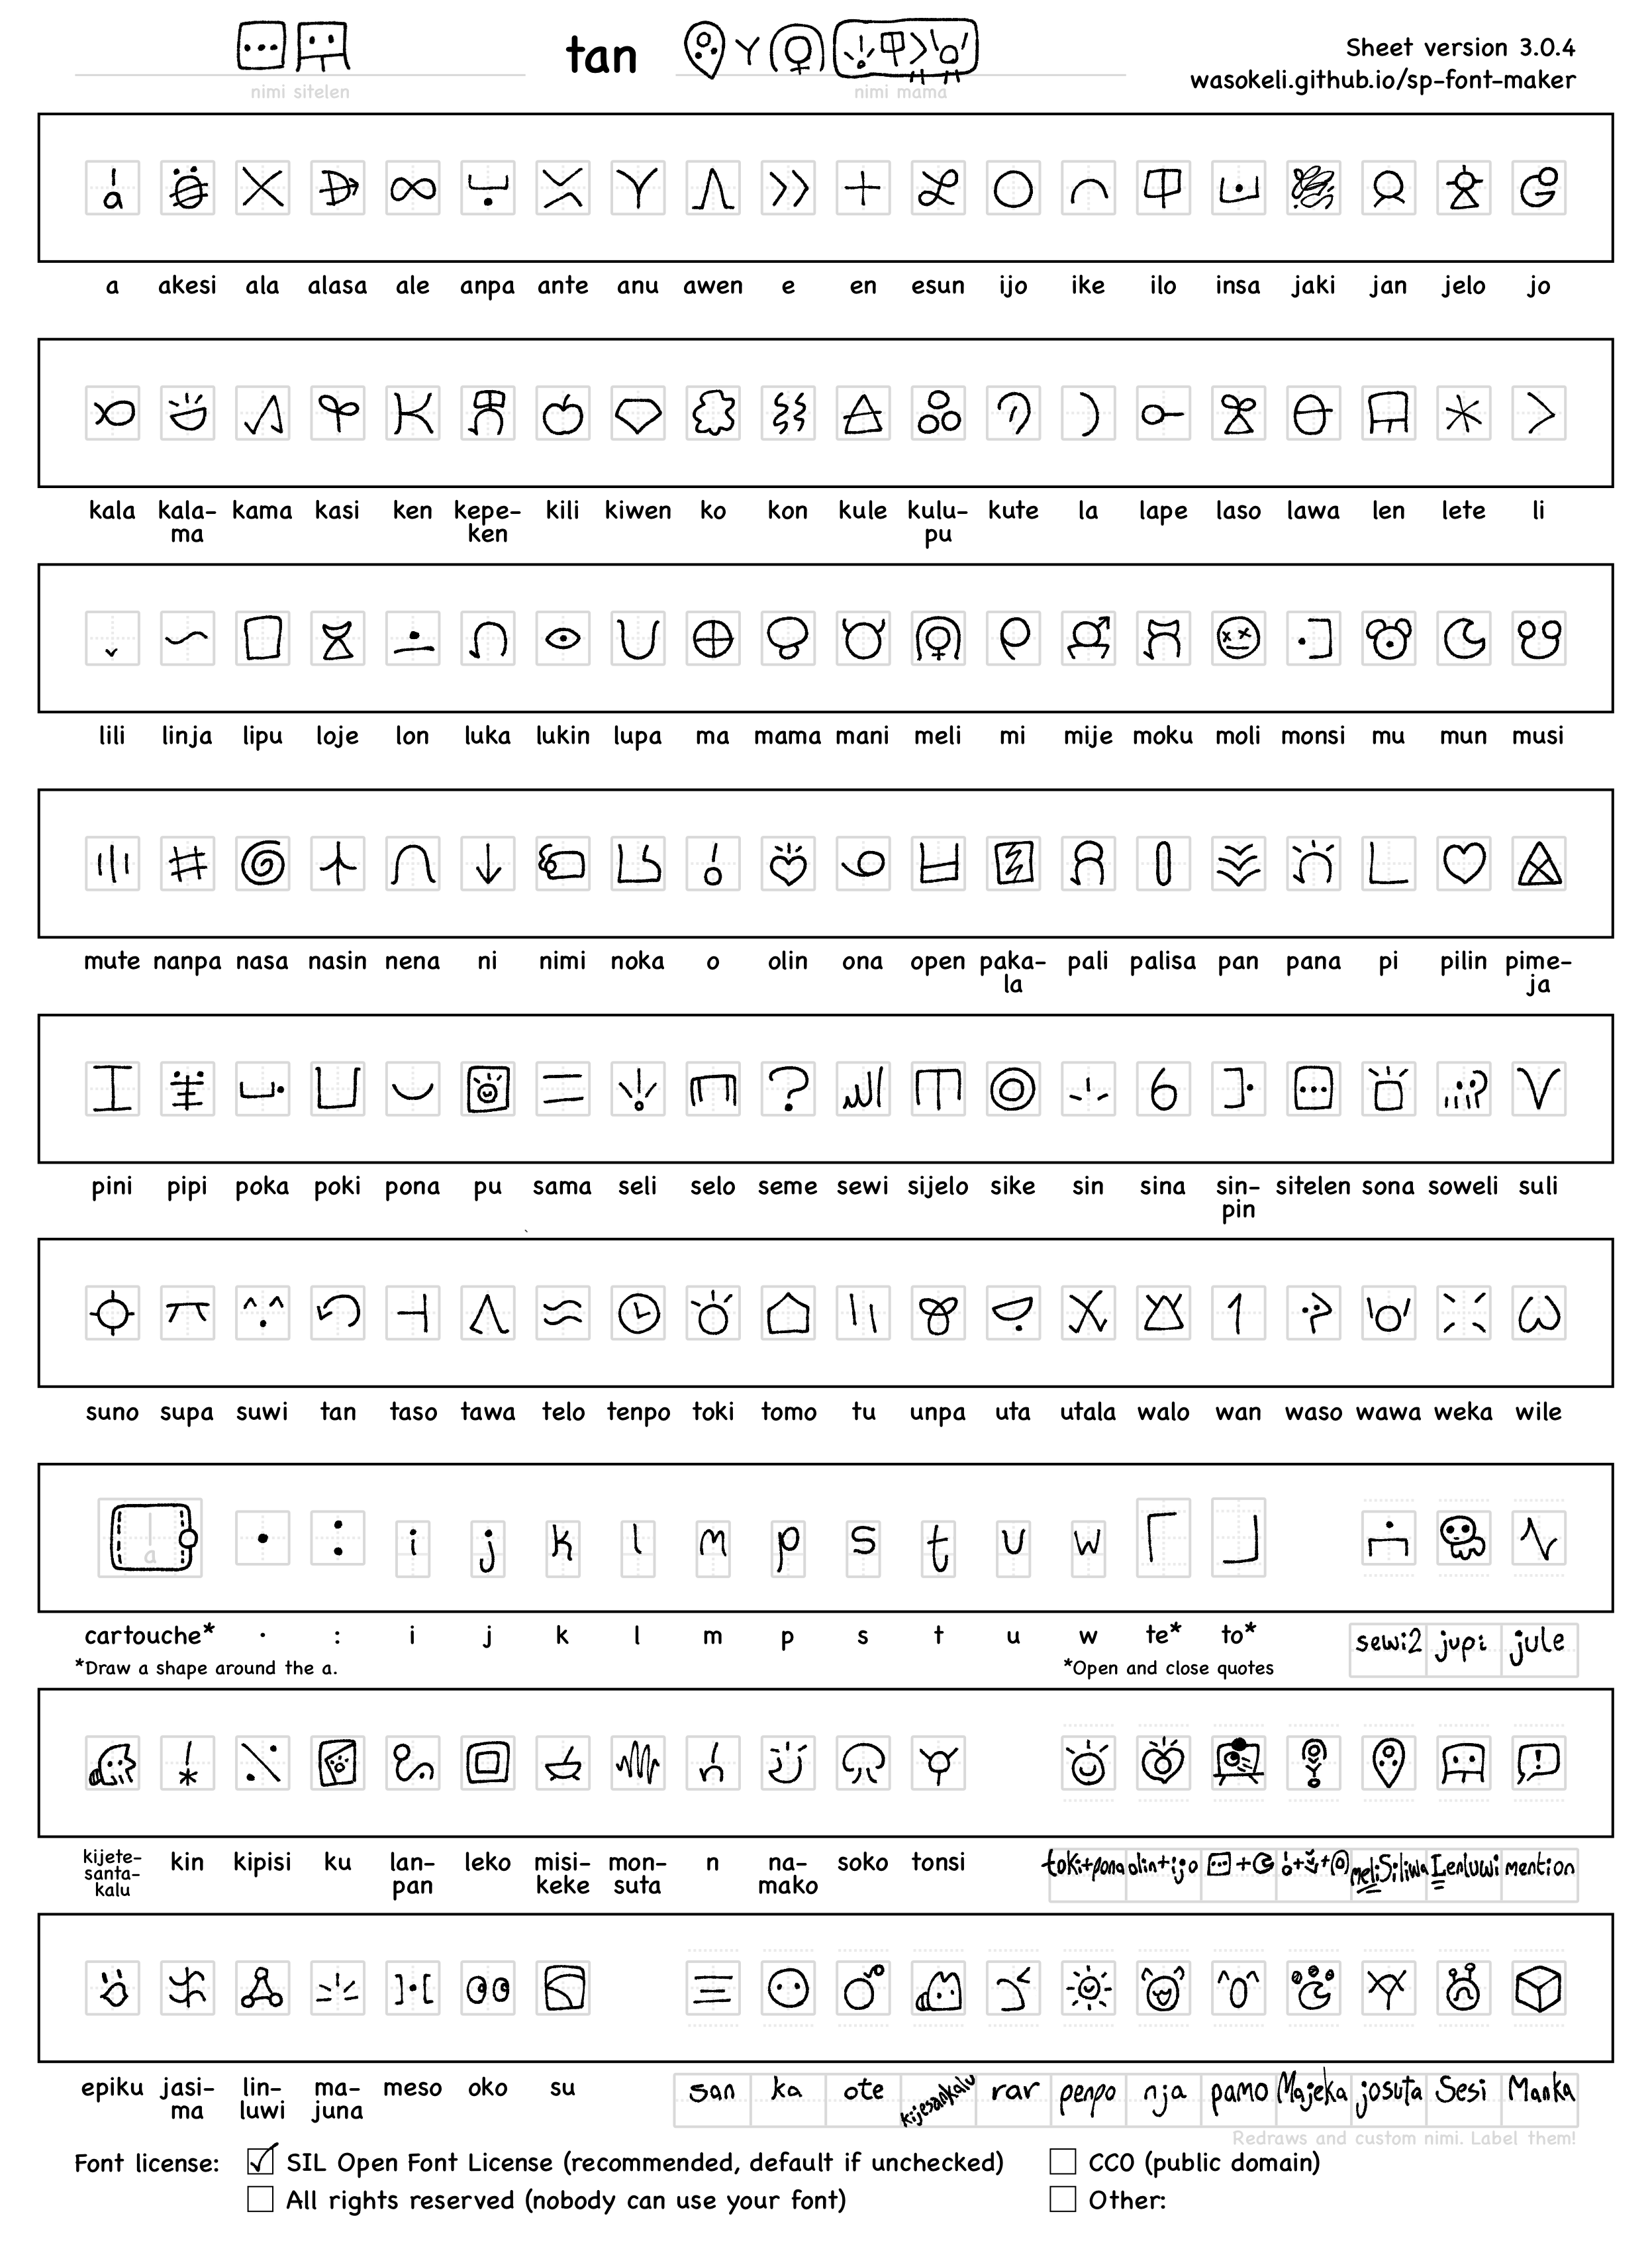
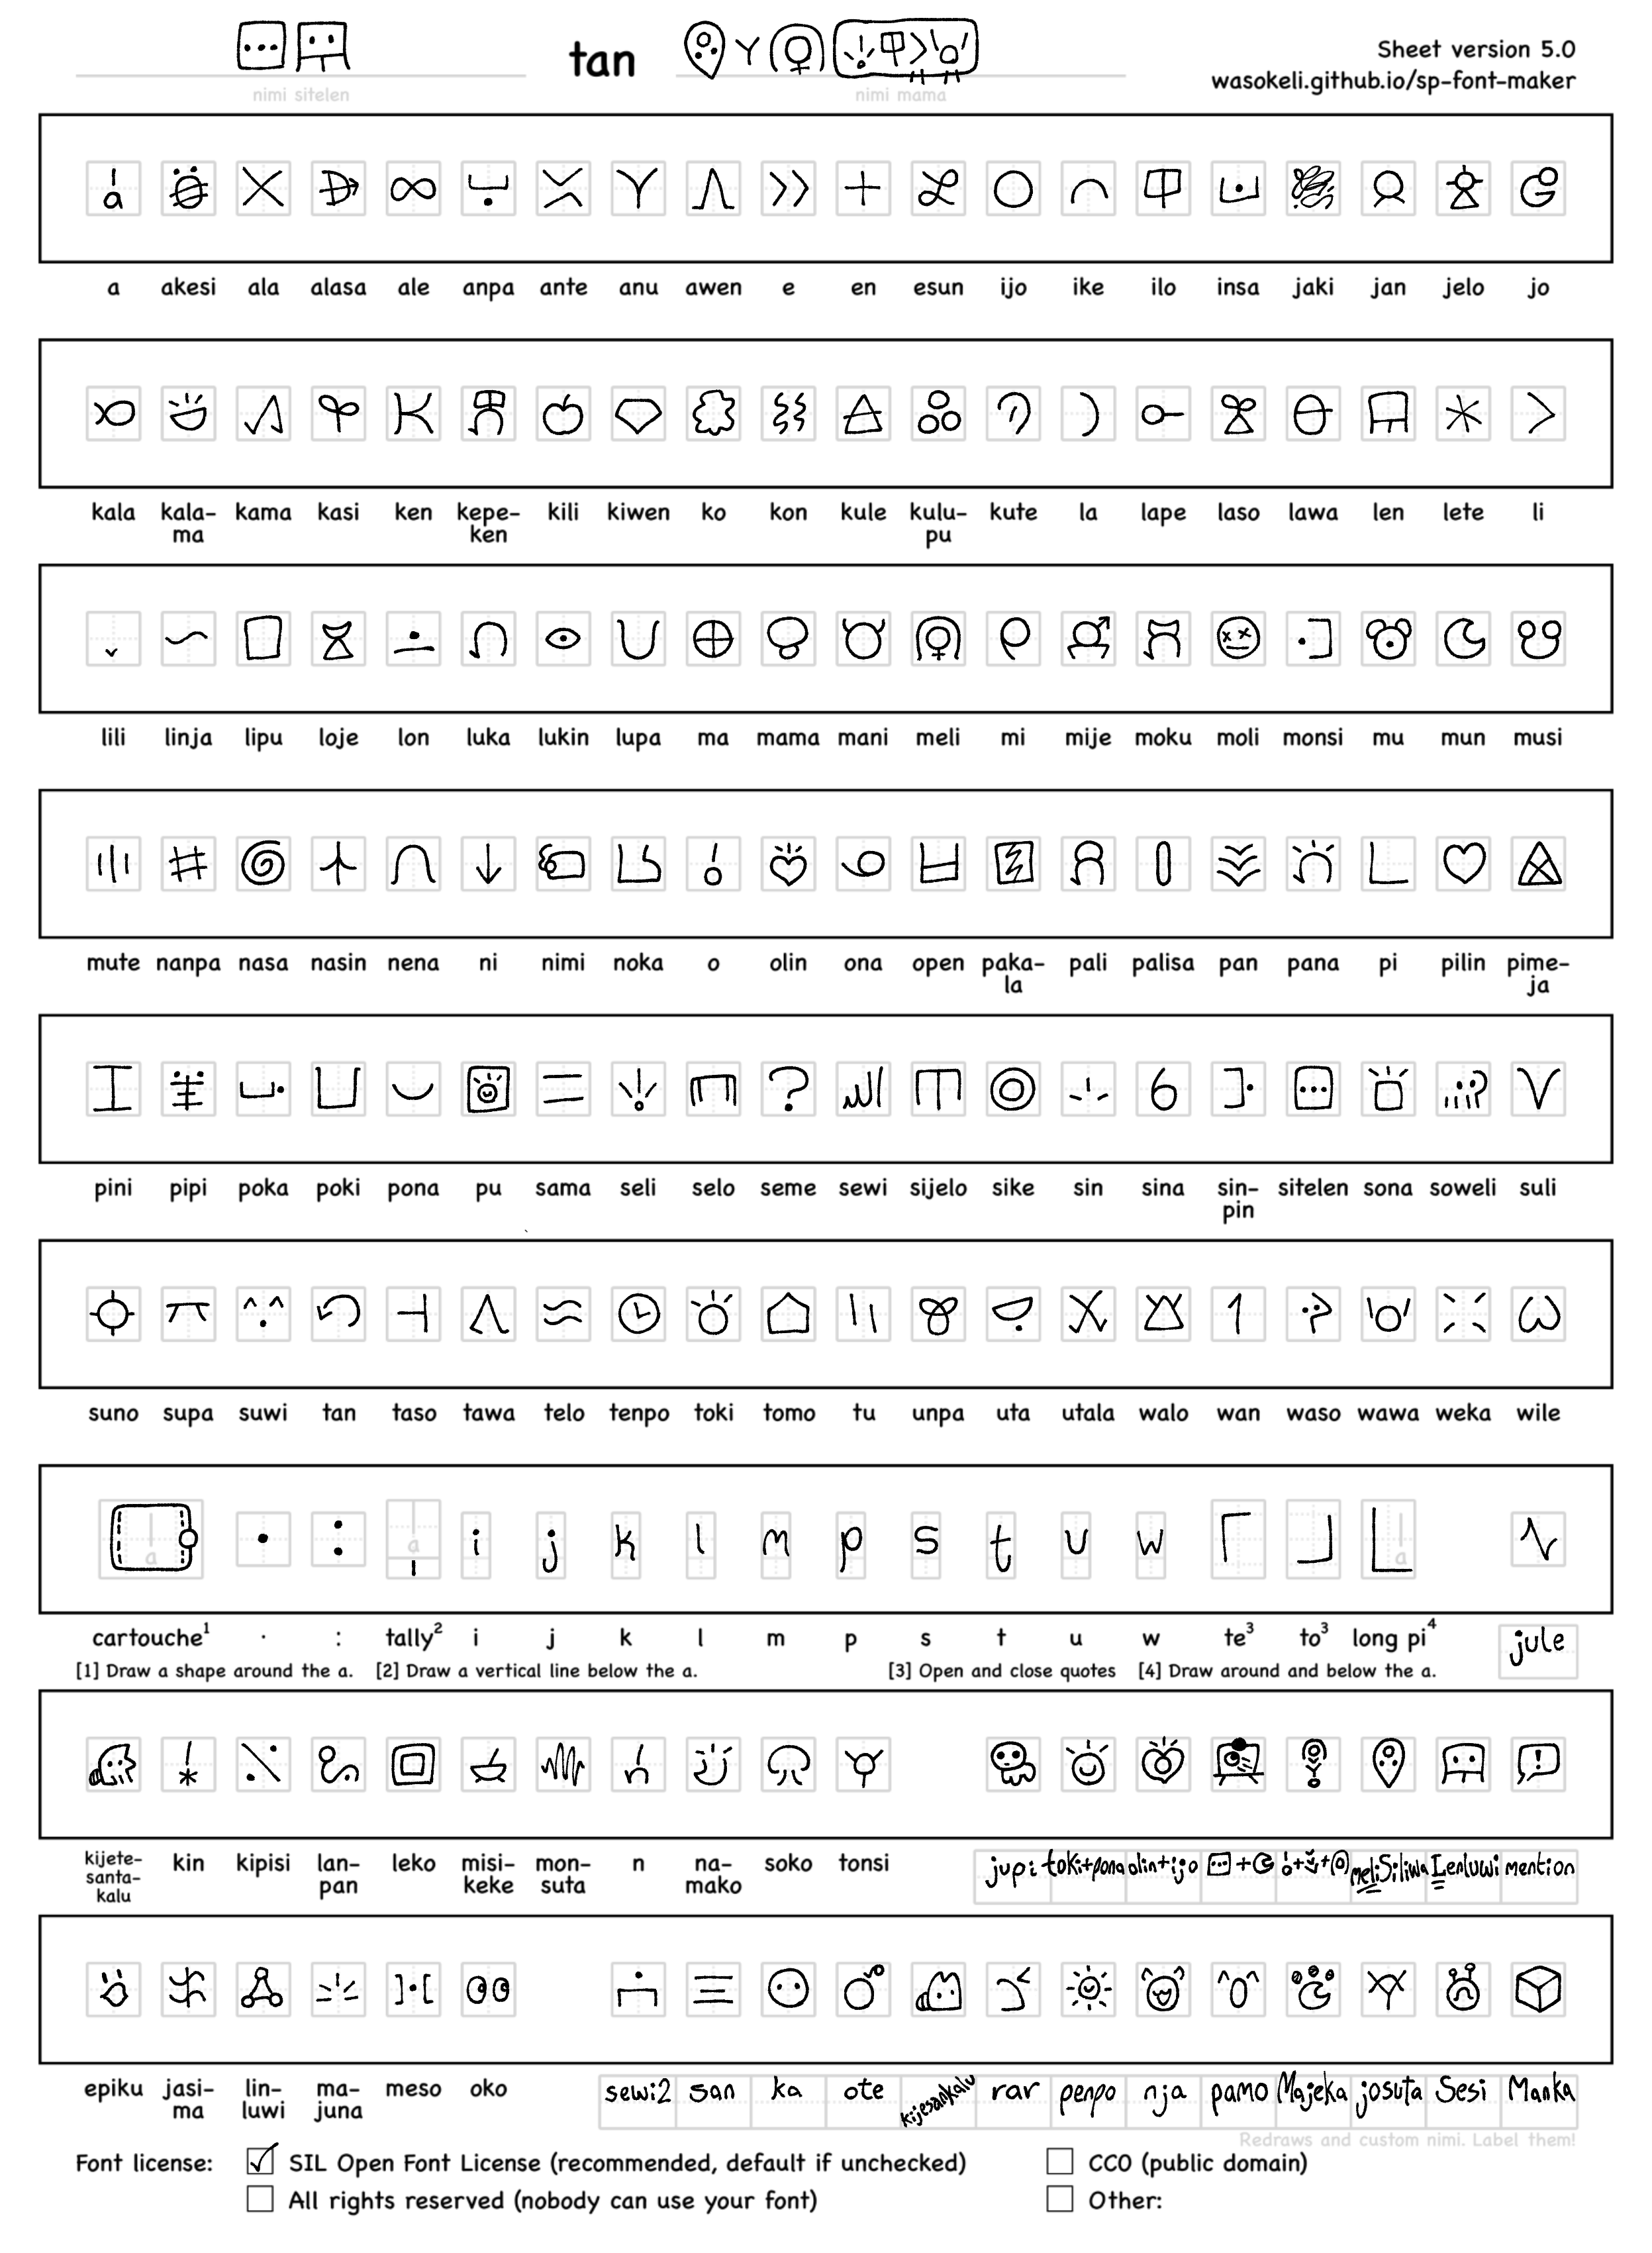
Update "sitelen Lenluwi (pimeja)"

diff --git a/sp-font-maker/sitelen-Lenluwi-pimeja.html b/sp-font-maker/sitelen-Lenluwi-pimeja.html
@@ -34,7 +34,7 @@
     }
     .word {
         width: 48px;
-        text-align: center;
+        text-align: left;
     }
     .label {
         font-family: 'Chalkboard SE', 'Comic Sans MS', sans-serif;
@@ -44,6 +44,7 @@
         display: inline-block;
         opacity: 0.5;
         overflow-wrap: break-word;
+        text-align: center;
     }
     .hidden.label {
         display: none;
@@ -195,9 +196,11 @@
         <div class="word">wawa<br><span class="hidden label">wawa</span></div>
         <div class="word">weka<br><span class="hidden label">weka</span></div>
         <div class="word">wile<br><span class="hidden label">wile</span></div>
-        <div class="word">[<br><span class="hidden label">[</span></div>        <div class="word">]<br><span class="hidden label">]</span></div>
+        <div class="word">[<br><span class="hidden label">[</span></div>
+        <div class="word">]<br><span class="hidden label">]</span></div>
         <div class="word">.<br><span class="hidden label">.</span></div>
         <div class="word">:<br><span class="hidden label">:</span></div>
+        <div class="word">|,=<br><span class="hidden label">,</span></div>
         <div class="word">i<br><span class="hidden label">i</span></div>
         <div class="word">j<br><span class="hidden label">j</span></div>
         <div class="word">k<br><span class="hidden label">k</span></div>
@@ -210,14 +213,12 @@
         <div class="word">w<br><span class="hidden label">w</span></div>
         <div class="word">te<br><span class="hidden label">te</span></div>
         <div class="word">to<br><span class="hidden label">to</span></div>
+        <div class="word">pi()<br><span class="hidden label">pi()</span></div>
         <div class="word">|<br><span class="hidden label"> </span></div>
-        <div class="word">sewi2<br><span class="hidden label">sewi2</span></div>
-        <div class="word">jupi<br><span class="hidden label">jupi</span></div>
         <div class="word">jule<br><span class="hidden label">jule</span></div>
         <div class="word">kijetesantakalu<br><span class="hidden label">kijete&shy;santa&shy;kalu</span></div>
         <div class="word">kin<br><span class="hidden label">kin</span></div>
         <div class="word">kipisi<br><span class="hidden label">kipisi</span></div>
-        <div class="word">ku<br><span class="hidden label">ku</span></div>
         <div class="word">lanpan<br><span class="hidden label">lan&shy;pan</span></div>
         <div class="word">leko<br><span class="hidden label">leko</span></div>
         <div class="word">misikeke<br><span class="hidden label">misi&shy;keke</span></div>
@@ -227,6 +228,7 @@
         <div class="word">soko<br><span class="hidden label">soko</span></div>
         <div class="word">tonsi<br><span class="hidden label">tonsi</span></div>
         <div class="word">|<br><span class="hidden label"> </span></div>
+        <div class="word">jupi<br><span class="hidden label">jupi</span></div>
         <div class="word">toki+pona<br><span class="hidden label">toki+<br>pona</span></div>
         <div class="word">olin+ijo<br><span class="hidden label">olin+<br>ijo</span></div>
         <div class="word">sitelen&mun<br><span class="hidden label">sitelen&<br>mun</span></div>
@@ -240,8 +242,8 @@
         <div class="word">majuna<br><span class="hidden label">ma&shy;juna</span></div>
         <div class="word">meso<br><span class="hidden label">meso</span></div>
         <div class="word">oko<br><span class="hidden label">oko</span></div>
-        <div class="word">su<br><span class="hidden label">su</span></div>
         <div class="word">|<br><span class="hidden label"> </span></div>
+        <div class="word">sewi2<br><span class="hidden label">sewi2</span></div>
         <div class="word">san<br><span class="hidden label">san</span></div>
         <div class="word">ka<br><span class="hidden label">ka</span></div>
         <div class="word">ote<br><span class="hidden label">ote</span></div>
@@ -263,7 +265,7 @@
 </p>
 
 <span class="tp">
-<textarea class="tp" title="sina ken pana-wile e kulupu&sitelen lon ni<v">sina ken pana-wile e kulupu&sitelen lon ni<v
+<textarea class="tp" title="sina ken pana-wile e kulupu&sitelen lon insa pi(poki niv<)">sina ken pana-wile e kulupu&sitelen lon insa pi(poki niv<)
 
 </textarea>
 </span>

diff --git a/sp-font-maker/sitelen-Lenluwi.html b/sp-font-maker/sitelen-Lenluwi.html
@@ -34,7 +34,7 @@
     }
     .word {
         width: 48px;
-        text-align: center;
+        text-align: left;
     }
     .label {
         font-family: 'Chalkboard SE', 'Comic Sans MS', sans-serif;
@@ -44,6 +44,7 @@
         display: inline-block;
         opacity: 0.5;
         overflow-wrap: break-word;
+        text-align: center;
     }
     .hidden.label {
         display: none;
@@ -195,9 +196,11 @@
         <div class="word">wawa<br><span class="hidden label">wawa</span></div>
         <div class="word">weka<br><span class="hidden label">weka</span></div>
         <div class="word">wile<br><span class="hidden label">wile</span></div>
-        <div class="word">[<br><span class="hidden label">[</span></div>        <div class="word">]<br><span class="hidden label">]</span></div>
+        <div class="word">[<br><span class="hidden label">[</span></div>
+        <div class="word">]<br><span class="hidden label">]</span></div>
         <div class="word">.<br><span class="hidden label">.</span></div>
         <div class="word">:<br><span class="hidden label">:</span></div>
+        <div class="word">|,=<br><span class="hidden label">,</span></div>
         <div class="word">i<br><span class="hidden label">i</span></div>
         <div class="word">j<br><span class="hidden label">j</span></div>
         <div class="word">k<br><span class="hidden label">k</span></div>
@@ -210,14 +213,12 @@
         <div class="word">w<br><span class="hidden label">w</span></div>
         <div class="word">te<br><span class="hidden label">te</span></div>
         <div class="word">to<br><span class="hidden label">to</span></div>
+        <div class="word">pi()<br><span class="hidden label">pi()</span></div>
         <div class="word">|<br><span class="hidden label"> </span></div>
-        <div class="word">sewi2<br><span class="hidden label">sewi2</span></div>
-        <div class="word">jupi<br><span class="hidden label">jupi</span></div>
         <div class="word">jule<br><span class="hidden label">jule</span></div>
         <div class="word">kijetesantakalu<br><span class="hidden label">kijete&shy;santa&shy;kalu</span></div>
         <div class="word">kin<br><span class="hidden label">kin</span></div>
         <div class="word">kipisi<br><span class="hidden label">kipisi</span></div>
-        <div class="word">ku<br><span class="hidden label">ku</span></div>
         <div class="word">lanpan<br><span class="hidden label">lan&shy;pan</span></div>
         <div class="word">leko<br><span class="hidden label">leko</span></div>
         <div class="word">misikeke<br><span class="hidden label">misi&shy;keke</span></div>
@@ -227,6 +228,7 @@
         <div class="word">soko<br><span class="hidden label">soko</span></div>
         <div class="word">tonsi<br><span class="hidden label">tonsi</span></div>
         <div class="word">|<br><span class="hidden label"> </span></div>
+        <div class="word">jupi<br><span class="hidden label">jupi</span></div>
         <div class="word">toki+pona<br><span class="hidden label">toki+<br>pona</span></div>
         <div class="word">olin+ijo<br><span class="hidden label">olin+<br>ijo</span></div>
         <div class="word">sitelen&mun<br><span class="hidden label">sitelen&<br>mun</span></div>
@@ -240,8 +242,8 @@
         <div class="word">majuna<br><span class="hidden label">ma&shy;juna</span></div>
         <div class="word">meso<br><span class="hidden label">meso</span></div>
         <div class="word">oko<br><span class="hidden label">oko</span></div>
-        <div class="word">su<br><span class="hidden label">su</span></div>
         <div class="word">|<br><span class="hidden label"> </span></div>
+        <div class="word">sewi2<br><span class="hidden label">sewi2</span></div>
         <div class="word">san<br><span class="hidden label">san</span></div>
         <div class="word">ka<br><span class="hidden label">ka</span></div>
         <div class="word">ote<br><span class="hidden label">ote</span></div>
@@ -263,7 +265,7 @@
 </p>
 
 <span class="tp">
-<textarea class="tp" title="sina ken pana-wile e kulupu&sitelen lon ni<v">sina ken pana-wile e kulupu&sitelen lon ni<v
+<textarea class="tp" title="sina ken pana-wile e kulupu&sitelen lon insa pi(poki niv<)">sina ken pana-wile e kulupu&sitelen lon insa pi(poki niv<)
 
 </textarea>
 </span>